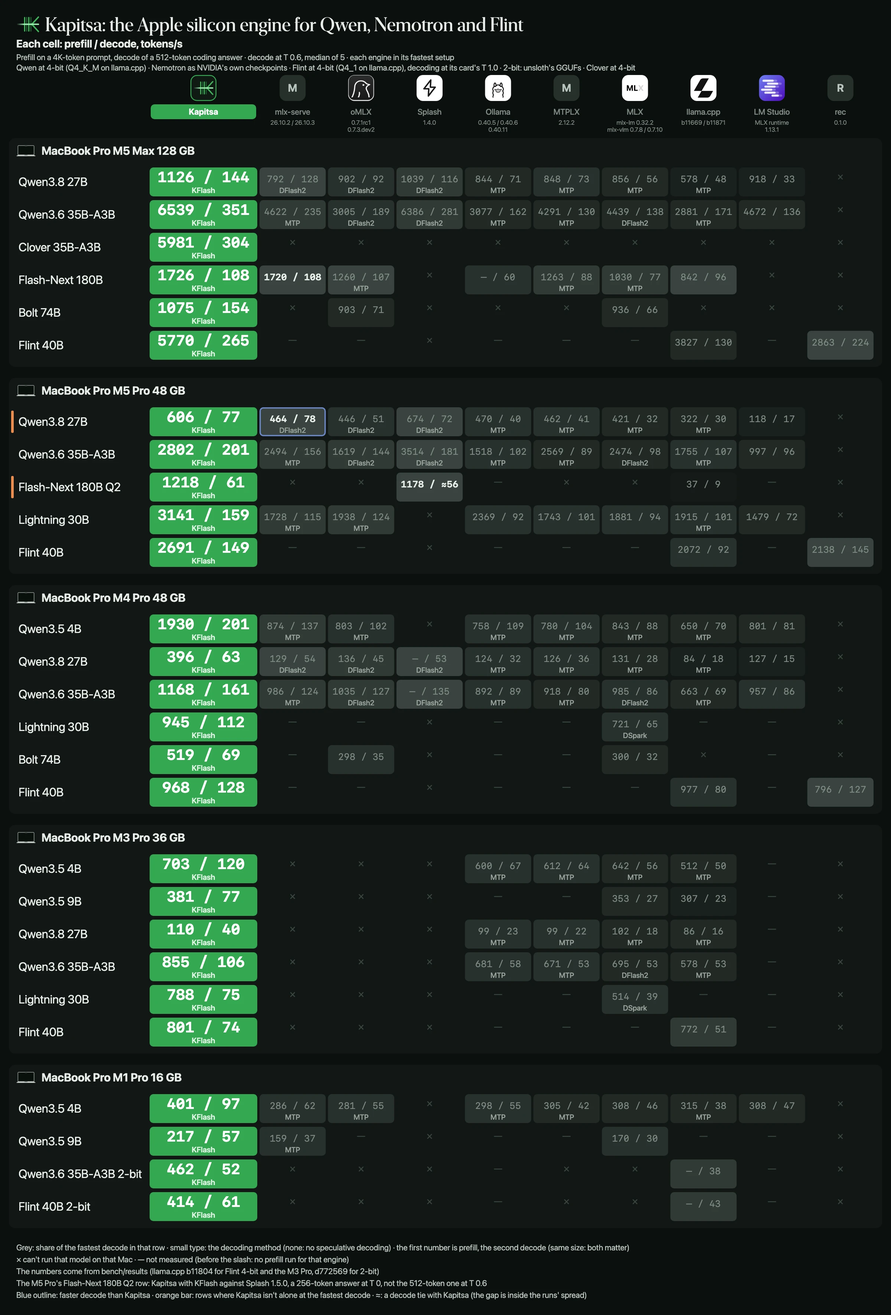
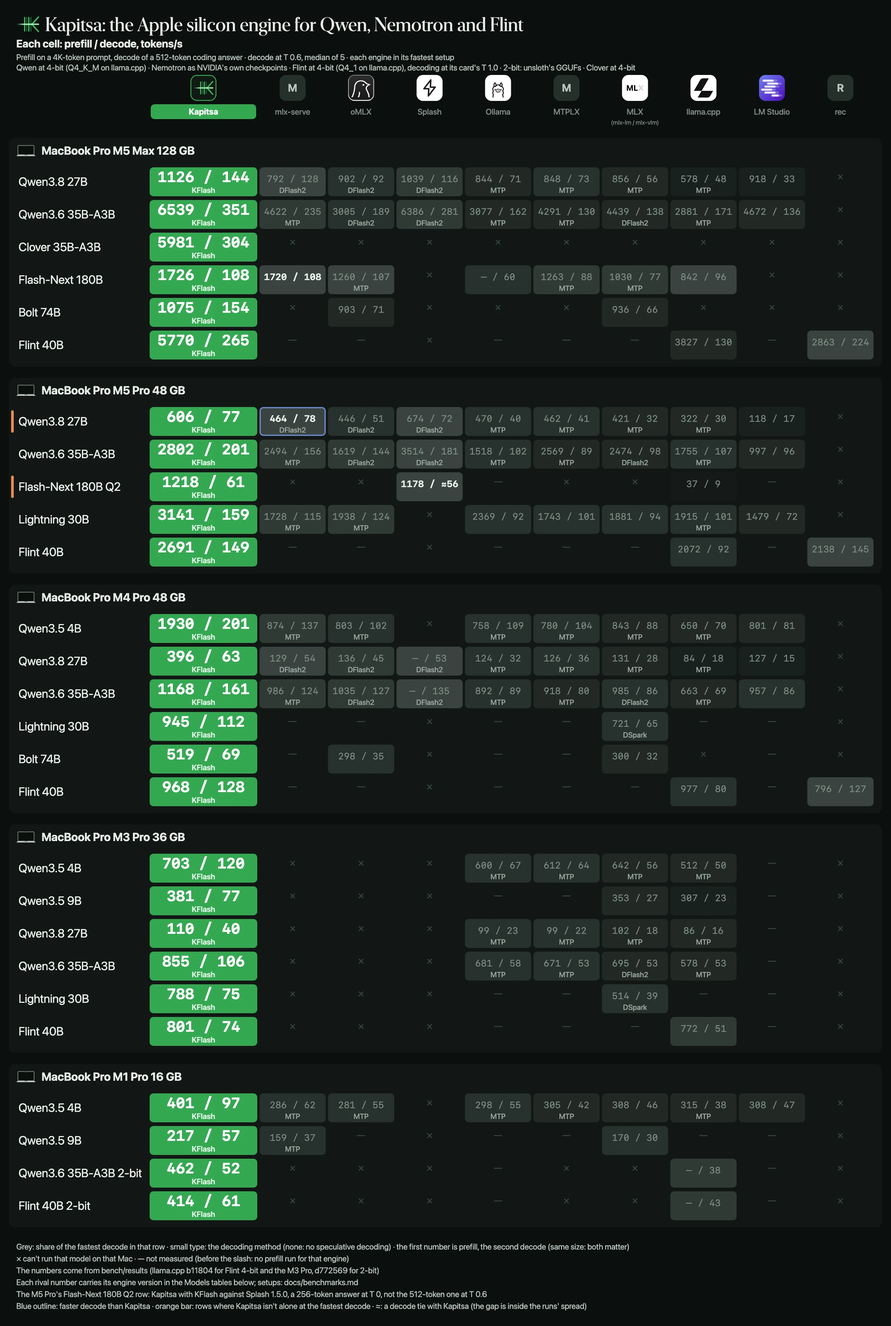
README poster: rival versions per cell, not per column (MLX cell was mislabeled 0.7.8 vs measured 0.7.12) (#1108)
* readme poster and tables: column headers name the engine, not a version; MLX reads (mlx-lm / mlx-vlm); footer points to per-cell versions

* README poster: rival versions per cell, not per column

Column headers name the engine (MLX reads (mlx-lm / mlx-vlm)); each rival cell carries its own version in its detail, from the header it had before. Poster footer points at docs/benchmarks.md. Test: every rival cell has a version in its detail or a line in docs/benchmarks.md.

* README poster footer: say what is true (versions are in the Models tables, setups in docs/benchmarks.md)

* README poster: each rival cell takes its engine version from the result files behind its number (src), not a column header

* README poster: the M5 Max Super-VL MLX cell is mlx-vlm git main 73d366e (read from its result file); version_from must name the version on the engine's own line; drop the one-shot link_sources.py

---------

diff --git a/tests/test_readme_images.py b/tests/test_readme_images.py
@@ -44,4 +44,74 @@ for kind in ("prefill", "decode"):
     html, w, h = ri.context_chart(data, "light", kind)
     assert html.count("<polyline") == 2 * len(C["models"]) and w == data["poster"]["size"][0], kind  # line, leader
     assert ri.context_alt(data, kind).startswith(C[kind]["alt"] + ": " + C["models"][0]["model"]), kind
+# column headers name an engine, never a version; every rival number shows the version of the record behind it:
+# a cell's `src` files (bench/results) give the number and the version, which readme_images.resolve_versions fills into
+# its detail; a cell whose files name no version carries `version` and, unless it says "version not recorded",
+# `version_from`, a record that states it
+import copy
+import re
+assert not any(e.get("version") and e["name"] != "MLX" for e in data["engines"]), "a rival column header names a version"
+assert not any(re.search(r"\d", v) for m in data["tables"]["macs"] for v in m.get("versions", {}).values()), "a Mac's header names a version"
+rd = copy.deepcopy(data)
+ri.resolve_versions(rd)
+rival_cells = [(m["name"], r["model"], e, c) for m in rd["poster"]["macs"] + rd["tables"]["macs"] for r in m["rows"]
+               for e, c in r["cells"].items() if e != "Kapitsa" and isinstance(c, dict) and ri.is_num(c.get("value"))]
+assert rival_cells
+NOT_RECORDED = "version not recorded"
+VERSION_WORDS = re.compile(r"mlx-lm [\d.]+|mlx-vlm [\d.]+|MLX runtime [\d.]+|llama\.cpp runtime [\d.]+|\bb\d{4,5}\b|\d+\.\d+[\w.]*|\b[0-9a-f]{7,8}\b")
+for mac, model, e, c in rival_cells:
+    who = f"{mac} / {model} / {e}"
+    assert "src" in c or "version" in c, f"{who}: no result file and no stated version behind its number"
+    if "src" in c:  # the files behind the number: right engine, and one of their decodes (or their mean) is the cell's number
+        recs = [ri.result_record(p) for p in c["src"]]
+        assert all(r["engine"] == ri.RESULT_ENGINE[e] for r in recs), who
+        meds = [r["decode_summary"]["median_tps"] for r in recs]
+        vals = [x for r in recs for x in (r["decode_summary"].get("median_tps"), r["decode_summary"].get("median_tps_e2e"),
+                                           r["decode_summary"].get("mean_tps")) if x is not None] + [sum(meds) / len(meds)]
+        assert any(abs(v - c["value"]) <= 0.55 for v in vals), f"{who}: {c['value']} is in none of its files {c['src']}"
+        lab = ri.source_version(e, c["src"])
+        if lab:
+            assert c["detail"].count(lab) == 1, f"{who}: shows {c['detail']!r}, its files record {lab!r}"
+            assert "version" not in c or c["version"] == lab, who
+            assert set(VERSION_WORDS.findall(c["detail"].replace(lab, ""))) <= set(), f"{who}: a second version in {c['detail']!r}"
+    if "version" in c and c["version"] != NOT_RECORDED and not ("src" in c and ri.source_version(e, c["src"])):
+        # the record names this version on the engine's own line (a table row or sentence about that engine), not
+        # just somewhere in the file: "mlx-vlm 0.7.8" elsewhere in a README says nothing about this engine's build
+        ENGINE_WORDS = {"Splash": ("splash",), "llama.cpp": ("llama.cpp",), "MLX": ("mlx-lm", "mlx-vlm"), "oMLX": ("omlx",),
+                        "mlx-serve": ("mlx-serve",), "Ollama": ("ollama",), "MTPLX": ("mtplx",), "LM Studio": ("lm studio", "lmstudio")}
+        src_text = open(os.path.join(ri.RESULTS, c["version_from"]), encoding="utf-8").read()
+        lines = [ln for ln in src_text.split("\n") if c["version"] in ln and any(w in ln.lower() for w in ENGINE_WORDS[e])]
+        assert lines, f"{who}: no line of {c['version_from']} names {e} with {c['version']!r}"
+        assert c["version"] in c["detail"], who
+    if c.get("version") == NOT_RECORDED:
+        assert NOT_RECORDED in c["detail"], who
+# a cell whose version differs from its result file fails: a wrong src version, a hand-typed second version, a wrong number
+bad = copy.deepcopy(data)
+cell0 = next(c for m in bad["poster"]["macs"] for r in m["rows"] for e, c in r["cells"].items()
+             if e == "MLX" and isinstance(c, dict) and c.get("src") and "mlx-vlm" in (ri.source_version("MLX", c["src"]) or ""))
+other = next(p for p in ri.RESULTS.glob("**/*mlxlm*.json") if ri.version_label("MLX", json.load(open(p)).get("version", "")) == "mlx-lm 0.32.2")
+cell0["src"] = [str(other.relative_to(ri.RESULTS))]
+assert ri.source_version("MLX", cell0["src"]) == "mlx-lm 0.32.2"
+cell0["detail"] = "mlx-vlm 0.7.12"
+try:
+    ri.resolve_versions(bad)
+    raise SystemExit("a hand-typed version was accepted")
+except AssertionError as err:
+    assert "types a version" in str(err), err
+cell0["detail"] = "{v}"
+bad = copy.deepcopy(data)   # the first resolve above stopped part-way
+cell0 = next(c for m in bad["poster"]["macs"] for r in m["rows"] for e, c in r["cells"].items()
+             if e == "MLX" and isinstance(c, dict) and c.get("src") and "mlx-vlm" in (ri.source_version("MLX", c["src"]) or ""))
+cell0["src"] = [str(other.relative_to(ri.RESULTS))]
+cell0["detail"] = "{v}"
+ri.resolve_versions(bad)
+assert cell0["detail"] == "mlx-lm 0.32.2", "the version shown is the one in the file"
+assert any("docs/benchmarks.md" in x for x in data["poster"]["footer"])
+
+# the M5 Max Super-VL MLX cell ran mlx-vlm git main 73d366e, unreleased: the 0.7.8 release refuses the model, and the
+# result file's own version field says so (the session README names the build on the mlx-vlm line)
+cell = next(r["cells"]["MLX"] for m in rd["tables"]["macs"] if "M5 Max" in m["name"] for r in m["rows"] if r["model"] == "Super-VL 120B")
+assert cell["detail"] == "mlx-vlm git main 73d366e", cell["detail"]
+assert "0.7.8" not in cell["detail"]
+assert "73d366e" in open(os.path.join(ri.RESULTS, cell["src"][0]), encoding="utf-8").read()
 print(f"test_readme_images: ok ({n} Kapitsa cells)")

diff --git a/tools/readme_images/readme_images.py b/tools/readme_images/readme_images.py
@@ -52,6 +52,79 @@ def cell(row, engine):
     return c.get("value"), None if m == NO_SPEC else m, c
 
 
+RESULTS = ROOT / "bench" / "results"
+
+
+def version_label(engine, raw):
+    """the engine version a result file records, as the README shows it: "mlx-lm 0.32.2", "b11669", "0.7.1rc1"; None when
+    the file does not say (unknown, b0): such a cell names its version in `version`, with `version_from` naming the
+    record that states it"""
+    import re
+    r = (raw or "").strip()
+    if not r or r == "unknown":
+        return None
+    if engine == "llama.cpp":
+        m = re.search(r"\((b\d+), (\w+)\)", r)
+        if not m:
+            return None
+        return m.group(1) if m.group(1) not in ("b0", "b1") else (m.group(2) if m.group(2) != "unknown" else None)
+    if engine == "MLX":
+        m = re.match(r"mlx_lm (\S+?)(?:\+\S+)? mlx", r)
+        if m:
+            return "mlx-lm " + m.group(1)
+        m = re.match(r"mlx-vlm (git main \w+)", r) or re.match(r"mlx-vlm (\d[\w.]*)", r)
+        return "mlx-vlm " + m.group(1) if m else None
+    if engine == "oMLX":
+        m = re.match(r"(?:omlx )?(\d[\w.]*)", r)
+        return m.group(1) if m else None
+    if engine == "LM Studio":
+        m = re.search(r"(MLX runtime [\d.]+|llama\.cpp runtime [\d.]+)", r)
+        return m.group(1) if m else None
+    if engine == "MTPLX":
+        m = re.match(r"mtplx (\S+)", r)
+        return m.group(1) if m else None
+    return r
+
+
+RESULT_ENGINE = {"mlx-serve": "mlx-serve", "oMLX": "omlx", "Splash": "splash", "Ollama": "ollama", "MTPLX": "mtplx",
+                 "MLX": "mlx-lm", "llama.cpp": "llama.cpp", "LM Studio": "lmstudio", "rec": "rec"}
+
+
+def result_record(path):
+    return json.loads((RESULTS / path).read_text(encoding="utf-8"))
+
+
+def source_version(engine, src):
+    """the version(s) the result files behind a cell record, joined with " / " when they differ; None if a file doesn't say"""
+    labels = []
+    for p in src:
+        rec = result_record(p)
+        assert rec.get("engine") == RESULT_ENGINE[engine], f"{p} is a {rec.get('engine')} record, not {engine}"
+        lab = version_label(engine, rec.get("version"))
+        if lab is None:
+            return None
+        if lab not in labels:
+            labels.append(lab)
+    return " / ".join(labels)
+
+
+def resolve_versions(data):
+    """a rival cell with `src` (the result files behind its number) shows the version those files record: its `detail`
+    is a template whose {v} the files fill (default "{v}"), never typed. A cell whose files don't say names `version`
+    and `version_from` (a record that states it); `check` verifies it"""
+    for kind in ("poster", "tables"):
+        for mac in data[kind]["macs"]:
+            for row in mac["rows"]:
+                for eng, c in row["cells"].items():
+                    if eng == "Kapitsa" or not isinstance(c, dict) or not ("src" in c or "version" in c):
+                        continue
+                    v = (source_version(eng, c["src"]) if "src" in c else None) or c.get("version")
+                    assert v, f"{mac['name']} / {row['model']} / {eng}: its files name no version and the cell gives none"
+                    tmpl = c.get("detail", "{v}")
+                    assert "{v}" in tmpl, f"{mac['name']} / {row['model']} / {eng}: its detail {tmpl!r} types a version; write {{v}}"
+                    c["detail"] = tmpl.replace("{v}", v)
+
+
 def is_num(v):
     return isinstance(v, (int, float)) and not isinstance(v, bool)
 
@@ -139,7 +212,7 @@ def family_table(data, rows, tmac=None):
             head.append("<mark>**Kapitsa**</mark>")
             continue
         name = e["name"].replace(" ", "&nbsp;").replace("-", "\u2011")
-        ver = (shared[e["name"]] or (tmac or {}).get("versions", {}).get(e["name"])
+        ver = ((tmac or {}).get("versions", {}).get(e["name"])
                or T.get("versions", {}).get(e["name"], e.get("version", "")).replace("\n", " "))
         head.append(f"<sub>{name}<br>{ver}</sub>" if ver else f"<sub>{name}</sub>")
     out = ["| Model | " + " | ".join(head) + " |", "| --- |" + " ---: |" * len(engines)]
@@ -148,7 +221,7 @@ def family_table(data, rows, tmac=None):
         top = max(cell(r, e["name"])[0] for e in engines if is_num(cell(r, e["name"])[0]))
         alias = f" · `{m['alias']}`" if m.get("alias") else ""   # (none: not in the catalog, e.g. a converted folder)
         out.append(f"| **{m['name']}**{alias}<br><sub>{m['about']}</sub> | "
-                   + " | ".join(table_cell(r, e["name"], top, shared[e["name"]]) for e in engines) + " |")
+                   + " | ".join(table_cell(r, e["name"], top, shared[e["name"]] if e["name"] == "Kapitsa" else None) for e in engines) + " |")
     return out
 
 
@@ -768,6 +841,7 @@ def main():
     ap.add_argument("--data", type=Path, default=HERE / "readme_images.json")
     a = ap.parse_args()
     data = json.loads(a.data.read_text(encoding="utf-8"))
+    resolve_versions(data)
     check(data)
     if a.tables:
         old = a.readme.read_text(encoding="utf-8")

diff --git a/README.md b/README.md
@@ -145,21 +145,21 @@ The catalog models measured on each Mac, against the engines that run them: one 
 
 **Qwen and Nemotron**
 
-| Model | <mark>**Kapitsa**</mark> | <sub>mlx‑serve<br>26.10.2 / 26.10.3</sub> | <sub>oMLX<br>0.7.1rc1 / 0.7.3.dev2</sub> | <sub>Splash<br>1.4.0</sub> | <sub>Ollama<br>0.40.5 / 0.40.11</sub> | <sub>MTPLX<br>2.12.2</sub> | <sub>MLX<br>mlx-vlm 0.7.8 / 0.7.10</sub> | <sub>llama.cpp<br>b11669 / b11871</sub> | <sub>LM&nbsp;Studio<br>MLX runtime 1.13.1 (nax), llama.cpp runtime 2.60.0</sub> |
+| Model | <mark>**Kapitsa**</mark> | <sub>mlx‑serve</sub> | <sub>oMLX</sub> | <sub>Splash</sub> | <sub>Ollama</sub> | <sub>MTPLX</sub> | <sub>MLX<br>(mlx-lm / mlx-vlm)</sub> | <sub>llama.cpp</sub> | <sub>LM&nbsp;Studio</sub> |
 | --- | ---: | ---: | ---: | ---: | ---: | ---: | ---: | ---: | ---: |
-| **Qwen3.8-27B** · `27b`<br><sub>dense · 4-bit, 20.2 GB</sub> | 🟩 1126 / **144**<br><sub>KFlash · 7afb51d</sub> | 792 / 128<br><sub>DFlash2 · 26.10.3</sub> | 902 / 92<br><sub>DFlash2 · 0.7.3.dev2</sub> | 1039 / 116<br><sub>DFlash2</sub> | 844 / 71<br><sub>MTP · 0.40.11, MLX runner</sub> | 848 / 73<br><sub>MTP</sub> | 856 / 56<br><sub>MTP · mlx-vlm 0.7.10</sub> | 578 / 48<br><sub>MTP · b11871</sub> | 918 / 33<br><sub>MLX runtime 1.13.1 (nax)</sub> |
-| **Qwen3.6-35B-A3B** · `35b`<br><sub>MoE, 3B active · 4-bit, 22.1 GB</sub> | 🟩 6539 / **351**<br><sub>KFlash · 39f20c8</sub> | 4622 / 235<br><sub>MTP · 26.10.3</sub> | 3005 / 189<br><sub>DFlash2 · 0.7.3.dev2</sub> | 6386 / 281<br><sub>DFlash2</sub> | 3077 / 162<br><sub>MTP · 0.40.11, MLX runner</sub> | 4291 / 130<br><sub>MTP</sub> | 4439 / 138<br><sub>DFlash2 · mlx-vlm 0.7.10</sub> | 2881 / 171<br><sub>MTP · b11669</sub> | 4672 / 136<br><sub>MLX runtime 1.13.1 (nax)</sub> |
-| **Qwen3.8-Flash-Next 180B-A7B** · `flash-next`<br><sub>MoE, 7B active · 4-bit, 105.9 GB</sub> | 🟩 1726 / **108**<br><sub>KFlash · af7d795</sub> | 🟩 1720 / **108**<br><sub>26.10.2</sub> | 1260 / 107<br><sub>MTP · 0.7.1rc1</sub> | × | 60<br><sub>0.40.6</sub> | 1263 / 88<br><sub>MTP</sub> | 1030 / 77<br><sub>MTP · mlx-vlm 0.7.8</sub> | 842 / 96<br><sub>b11669</sub> | × |
-| **Nemotron Dory1.0 4B** · `dory`<br><sub>looped dense · NVFP4, 3.2 GB</sub> | 🟩 **122**<br><sub>KFlash · 7f4e709</sub> | × | × | × | × | × | 76<br><sub>mlx-vlm 0.7.8</sub> | 9<br><sub>b11669</sub> | × |
-| **Nemotron 3.5 Lightning 30B-A3B** · `lightning`<br><sub>hybrid MoE, 3B active · NVFP4, 22.9 GB</sub> | 🟩 **287**<br><sub>KFlash · 7f4e709</sub> | 190<br><sub>26.10.2</sub> | 190<br><sub>0.7.1rc1</sub> | × | 153<br><sub>0.40.5</sub> | 131 | 139<br><sub>mlx-vlm 0.7.8</sub> | 159<br><sub>b11669</sub> | 110<br><sub>llama.cpp runtime 2.60.0</sub> |
-| **Nemotron 3.5 Bolt 74B-A9B** · `bolt`<br><sub>hybrid MoE, 9B active · 2/4/8-bit mix, 25.1 GB</sub> | 🟩 1075 / **154**<br><sub>KFlash · 7f4e709</sub> | × | 903 / 71<br><sub>0.7.3.dev2</sub> | × | × | × | 936 / 66<br><sub>mlx-vlm 0.7.10</sub> | × | × |
-| **Nemotron 3.5 Super-VL 120B-A12B** · `super`<br><sub>hybrid MoE, 12B active · NVFP4, 76.4 GB</sub> | 🟩 **87**<br><sub>KFlash · 7f4e709</sub> | × | 52<br><sub>0.7.1rc1</sub> | × | 64<br><sub>0.40.5</sub> | 44 | 46<br><sub>mlx-vlm 0.7.8</sub> | 66<br><sub>b11669</sub> | 61<br><sub>llama.cpp runtime 2.60.0</sub> |
+| **Qwen3.8-27B** · `27b`<br><sub>dense · 4-bit, 20.2 GB</sub> | 🟩 1126 / **144**<br><sub>KFlash · 7afb51d</sub> | 792 / 128<br><sub>DFlash2 · 26.10.3</sub> | 902 / 92<br><sub>DFlash2 · 0.7.3.dev2</sub> | 1039 / 116<br><sub>DFlash2 · 1.4.0</sub> | 844 / 71<br><sub>MTP · 0.40.11, MLX runner</sub> | 848 / 73<br><sub>MTP · 2.12.2</sub> | 856 / 56<br><sub>MTP · mlx-vlm 0.7.10</sub> | 578 / 48<br><sub>MTP · b11871</sub> | 918 / 33<br><sub>MLX runtime 1.13.1 (nax)</sub> |
+| **Qwen3.6-35B-A3B** · `35b`<br><sub>MoE, 3B active · 4-bit, 22.1 GB</sub> | 🟩 6539 / **351**<br><sub>KFlash · 39f20c8</sub> | 4622 / 235<br><sub>MTP · 26.10.3</sub> | 3005 / 189<br><sub>DFlash2 · 0.7.3.dev2</sub> | 6386 / 281<br><sub>DFlash2 · 1.4.0</sub> | 3077 / 162<br><sub>MTP · 0.40.11, MLX runner</sub> | 4291 / 130<br><sub>MTP · 2.12.2</sub> | 4439 / 138<br><sub>DFlash2 · mlx-vlm 0.7.10</sub> | 2881 / 171<br><sub>MTP · b11669</sub> | 4672 / 136<br><sub>MLX runtime 1.13.1 (nax)</sub> |
+| **Qwen3.8-Flash-Next 180B-A7B** · `flash-next`<br><sub>MoE, 7B active · 4-bit, 105.9 GB</sub> | 🟩 1726 / **108**<br><sub>KFlash · af7d795</sub> | 🟩 1720 / **108**<br><sub>26.10.2</sub> | 1260 / 107<br><sub>MTP · 0.7.1rc1</sub> | × | 60<br><sub>0.40.6</sub> | 1263 / 88<br><sub>MTP · 2.12.2</sub> | 1030 / 77<br><sub>MTP · mlx-vlm 0.7.8</sub> | 842 / 96<br><sub>b11669</sub> | × |
+| **Nemotron Dory1.0 4B** · `dory`<br><sub>looped dense · NVFP4, 3.2 GB</sub> | 🟩 **122**<br><sub>KFlash · 7f4e709</sub> | × | × | × | × | × | 76<br><sub>mlx-lm 0.32.3.dev3</sub> | 9<br><sub>b11551</sub> | × |
+| **Nemotron 3.5 Lightning 30B-A3B** · `lightning`<br><sub>hybrid MoE, 3B active · NVFP4, 22.9 GB</sub> | 🟩 **287**<br><sub>KFlash · 7f4e709</sub> | 190<br><sub>26.10.2</sub> | 190<br><sub>0.7.1rc1</sub> | × | 153<br><sub>0.40.6</sub> | 131<br><sub>2.12.2</sub> | 139<br><sub>mlx-lm 0.32.2</sub> | 159<br><sub>b11669</sub> | 110<br><sub>llama.cpp runtime 2.60.0</sub> |
+| **Nemotron 3.5 Bolt 74B-A9B** · `bolt`<br><sub>hybrid MoE, 9B active · 2/4/8-bit mix, 25.1 GB</sub> | 🟩 1075 / **154**<br><sub>KFlash · 7f4e709</sub> | × | 903 / 71<br><sub>0.7.3.dev2</sub> | × | × | × | 936 / 66<br><sub>version not recorded</sub> | × | × |
+| **Nemotron 3.5 Super-VL 120B-A12B** · `super`<br><sub>hybrid MoE, 12B active · NVFP4, 76.4 GB</sub> | 🟩 **87**<br><sub>KFlash · 7f4e709</sub> | × | 52<br><sub>0.7.1rc1</sub> | × | 64<br><sub>0.40.6</sub> | 44<br><sub>2.12.2</sub> | 46<br><sub>mlx-vlm git main 73d366e</sub> | 66<br><sub>b11669</sub> | 61<br><sub>llama.cpp runtime 2.60.0</sub> |
 
 **Recursive Flint**
 
-| Model | <mark>**Kapitsa**</mark> | <sub>llama.cpp<br>Q4_1, b11871</sub> | <sub>rec<br>0.1.0</sub> |
+| Model | <mark>**Kapitsa**</mark> | <sub>llama.cpp</sub> | <sub>rec</sub> |
 | --- | ---: | ---: | ---: |
-| **Recursive Flint 40B-A2.5B** · `flint`<br><sub>MoE, 2.5B active · 4-bit, 22.6 GB</sub> | 🟩 5770 / **265**<br><sub>KFlash</sub> | 3827 / 130 | 2863 / 224 |
+| **Recursive Flint 40B-A2.5B** · `flint`<br><sub>MoE, 2.5B active · 4-bit, 22.6 GB</sub> | 🟩 5770 / **265**<br><sub>KFlash</sub> | 3827 / 130<br><sub>Q4_1, b11871</sub> | 2863 / 224<br><sub>0.1.0</sub> |
 
 **DiffuSpace Clover**
 
@@ -176,20 +176,20 @@ The catalog models measured on each Mac, against the engines that run them: one 
 
 **Qwen and Nemotron**
 
-| Model | <mark>**Kapitsa**</mark> | <sub>mlx‑serve<br>26.10.2</sub> | <sub>oMLX<br>0.7.1rc1</sub> | <sub>Splash<br>1.4.0</sub> | <sub>Ollama<br>0.40.5 / 0.40.6</sub> | <sub>MTPLX<br>2.12.2</sub> | <sub>MLX<br>mlx-lm 0.32.2, mlx-vlm 0.7.8</sub> | <sub>llama.cpp<br>b11669 / b11871</sub> | <sub>LM&nbsp;Studio<br>MLX runtime 1.13.1, llama.cpp runtime 2.60.0</sub> |
+| Model | <mark>**Kapitsa**</mark> | <sub>mlx‑serve</sub> | <sub>oMLX</sub> | <sub>Splash</sub> | <sub>Ollama</sub> | <sub>MTPLX</sub> | <sub>MLX<br>(mlx-lm / mlx-vlm)</sub> | <sub>llama.cpp</sub> | <sub>LM&nbsp;Studio</sub> |
 | --- | ---: | ---: | ---: | ---: | ---: | ---: | ---: | ---: | ---: |
-| **Qwen3.8-27B** · `27b`<br><sub>dense · 4-bit, 20.2 GB</sub> | 606 / 77<br><sub>KFlash</sub> | 🟩 464 / **78**<br><sub>DFlash2</sub> | 446 / 51<br><sub>DFlash2</sub> | 674 / 72<br><sub>DFlash2</sub> | 470 / 40<br><sub>MTP</sub> | 462 / 41<br><sub>MTP</sub> | 421 / 32<br><sub>MTP</sub> | 322 / 30<br><sub>MTP</sub> | 118 / 17 |
-| **Qwen3.6-35B-A3B** · `35b`<br><sub>MoE, 3B active · 4-bit, 22.1 GB</sub> | 🟩 2802 / **201**<br><sub>KFlash</sub> | 2494 / 156<br><sub>MTP</sub> | 1619 / 144<br><sub>DFlash2</sub> | 3514 / 181<br><sub>DFlash2</sub> | 1518 / 102<br><sub>MTP</sub> | 2569 / 89<br><sub>MTP</sub> | 2474 / 98<br><sub>DFlash2</sub> | 1755 / 107<br><sub>MTP</sub> | 997 / 96 |
+| **Qwen3.8-27B** · `27b`<br><sub>dense · 4-bit, 20.2 GB</sub> | 606 / 77<br><sub>KFlash</sub> | 🟩 464 / **78**<br><sub>DFlash2 · 26.10.2</sub> | 446 / 51<br><sub>DFlash2 · 0.7.1rc1</sub> | 674 / 72<br><sub>DFlash2 · 1.4.0</sub> | 470 / 40<br><sub>MTP · 0.40.6</sub> | 462 / 41<br><sub>MTP · 2.12.2</sub> | 421 / 32<br><sub>MTP · mlx-vlm 0.7.8</sub> | 322 / 30<br><sub>MTP · b11669</sub> | 118 / 17<br><sub>MLX runtime 1.13.1</sub> |
+| **Qwen3.6-35B-A3B** · `35b`<br><sub>MoE, 3B active · 4-bit, 22.1 GB</sub> | 🟩 2802 / **201**<br><sub>KFlash</sub> | 2494 / 156<br><sub>MTP · 26.10.2</sub> | 1619 / 144<br><sub>DFlash2 · 0.7.1rc1</sub> | 3514 / 181<br><sub>DFlash2 · 1.4.0</sub> | 1518 / 102<br><sub>MTP · 0.40.6</sub> | 2569 / 89<br><sub>MTP · 2.12.2</sub> | 2474 / 98<br><sub>DFlash2 · mlx-vlm 0.7.8</sub> | 1755 / 107<br><sub>MTP · b11669</sub> | 997 / 96<br><sub>MLX runtime 1.13.1</sub> |
 | **Qwen3.8-Flash-Next 180B-A7B** · `flash-next`<br><sub>MoE, 7B active · Q2_0 experts streamed from the SSD</sub> | 🟩 1218 / **61**<br><sub>KFlash · e67b764f</sub> | × | × | 1178 / **≈56**<br><sub>1.5.0</sub> | — | × | × | 37 / 9<br><sub>c7474afc</sub> | — |
-| **Nemotron Dory1.0 4B** · `dory`<br><sub>looped dense · NVFP4, 3.2 GB</sub> | 🟩 **70**<br><sub>KFlash</sub> | × | × | × | × | × | 53 | 13 | × |
-| **Nemotron 3.5 Lightning 30B-A3B** · `lightning`<br><sub>hybrid MoE, 3B active · NVFP4, 22.9 GB</sub> | 🟩 3141 / **159**<br><sub>KFlash</sub> | 1728 / 115<br><sub>MTP</sub> | 1938 / 124<br><sub>MTP</sub> | × | 2369 / 92 | 1743 / 101 | 1881 / 94 | 1915 / 101<br><sub>MTP</sub> | 1479 / 72 |
-| **Nemotron 3.5 Bolt 74B-A9B** · `bolt`<br><sub>hybrid MoE, 9B active · 2/4/8-bit mix, 25.1 GB</sub> | 🟩 **79**<br><sub>KFlash</sub> | × | 39 | × | × | × | 41 | × | × |
+| **Nemotron Dory1.0 4B** · `dory`<br><sub>looped dense · NVFP4, 3.2 GB</sub> | 🟩 **70**<br><sub>KFlash</sub> | × | × | × | × | × | 53<br><sub>mlx-lm 0.32.2.dev0</sub> | 13<br><sub>version not recorded</sub> | × |
+| **Nemotron 3.5 Lightning 30B-A3B** · `lightning`<br><sub>hybrid MoE, 3B active · NVFP4, 22.9 GB</sub> | 🟩 3141 / **159**<br><sub>KFlash</sub> | 1728 / 115<br><sub>MTP · 26.10.2</sub> | 1938 / 124<br><sub>MTP · 0.7.1rc1</sub> | × | 2369 / 92<br><sub>0.40.6</sub> | 1743 / 101<br><sub>2.12.2</sub> | 1881 / 94<br><sub>mlx-lm 0.32.2</sub> | 1915 / 101<br><sub>MTP · b11669</sub> | 1479 / 72<br><sub>llama.cpp runtime 2.60.0</sub> |
+| **Nemotron 3.5 Bolt 74B-A9B** · `bolt`<br><sub>hybrid MoE, 9B active · 2/4/8-bit mix, 25.1 GB</sub> | 🟩 **79**<br><sub>KFlash</sub> | × | 39<br><sub>0.7.1rc1</sub> | × | × | × | 41<br><sub>version not recorded</sub> | × | × |
 
 **Recursive Flint**
 
-| Model | <mark>**Kapitsa**</mark> | <sub>llama.cpp<br>b11804</sub> | <sub>rec<br>0.1.0</sub> |
+| Model | <mark>**Kapitsa**</mark> | <sub>llama.cpp</sub> | <sub>rec</sub> |
 | --- | ---: | ---: | ---: |
-| **Recursive Flint 40B-A2.5B** · `flint`<br><sub>MoE, 2.5B active · 4-bit, 22.6 GB</sub> | 🟩 2691 / **149**<br><sub>KFlash</sub> | 2072 / 92 | 2138 / 145 |
+| **Recursive Flint 40B-A2.5B** · `flint`<br><sub>MoE, 2.5B active · 4-bit, 22.6 GB</sub> | 🟩 2691 / **149**<br><sub>KFlash</sub> | 2072 / 92<br><sub>b11804</sub> | 2138 / 145<br><sub>0.1.0</sub> |
 
 <sub>Qwen3.8-Flash-Next 180B-A7B does not fit in 48 GB, so both engines stream its experts from the SSD. With Q2_0 weights on both and Kapitsa's expert store pinned at 24 GB (the auto size here is about 29.9 GB, but four runs at that size were stopped at memory pressure), Kapitsa's prefill is behind on short prompts, level at 4K and 16K and 2.7% ahead at 32K: not the fastest everywhere (correction, 24 Oct: on Kapitsa's warm second leg alone its prefill is 13.5-14.5% behind at 1K, level at 4K and a few percent ahead at 16K and 32K; [numbers and caveats](docs/benchmarks.md#qwen38-flash-next-streamed-from-the-ssd-kapitsa-against-llamacpp-m5-pro-48-gb-2026-10-24)). The Flash-Next 180B Q2 row's Kapitsa and Splash cells are a 2026-10-30 re-measure ([record](bench/results/2026-10-30-m5-pro-flash-next-kflash/README.md)): Kapitsa at main `e67b764f` running **KFlash** against the plain Splash 1.5.0 release, both at `--expert-memory 16G --idle-release off`, interleaved K S K S, 5 legs per arm of 2 runs each, with the scripts of the 2026-10-27 run. Its decode is a 256-token answer at T 0, not this table's 512-token answer at T 0.6, counted from the first token to the last over 10 requests per engine; its 4K prefill is prompt tokens over time to first token on that run's own 4,074-token prompt, against this table's 4,133. Kapitsa read 61.3 decode (53.7-64.7) and 1,218 prefill (976-1,269) against Splash's 56.5 (51.9-60.2) and 1,178 (1,040-1,262): the ranges overlap, so by the rule registered before the run it is a tie, not a win. KFlash's interleaved A/B at `--expert-memory 20G` (29 Oct, more runs per arm) measured decode 1.101x and 4K prefill 1.004x the release, the same tokens as the release on 6 prompts × 22 runs ([numbers](docs/benchmarks.md#m5-pro)). The llama.cpp cell is the 2026-10-27 four-engine run, PR #751 ([record](bench/results/2026-10-28-m5-pro-flash-next-engines/README.md)), 2 requests. Kapitsa's own engine ran in that record too, with MTP depth 2 and its expert store pinned at 24 GB, not sized from free memory: 847 prefill and 53.7 decode at T 0, but three of its legs were stopped at memory-pressure level 4, with up to 4.5 GB of swap, late in the leg (16K prefill or turn 2), so its 16K and turn-2 cells have 9 runs against 12. Ollama and LM Studio were not run on that Q2_0 pack, so their cells are dashes, and mlx-serve, oMLX, MTPLX and MLX have no pack of this model that fits 48 GB.</sub>
 
@@ -200,20 +200,20 @@ The catalog models measured on each Mac, against the engines that run them: one 
 
 **Qwen and Nemotron**
 
-| Model | <mark>**Kapitsa**</mark> | <sub>mlx‑serve<br>26.10.2</sub> | <sub>oMLX<br>0.7.1rc1</sub> | <sub>Splash<br>1.4.0</sub> | <sub>Ollama<br>0.40.5 / 0.40.6</sub> | <sub>MTPLX<br>2.12.2</sub> | <sub>MLX<br>mlx-lm 0.32.2, mlx-vlm 0.7.8</sub> | <sub>llama.cpp<br>b11669 / b11871</sub> | <sub>LM&nbsp;Studio<br>MLX runtime 1.13.1, llama.cpp runtime 2.60.0</sub> |
+| Model | <mark>**Kapitsa**</mark> | <sub>mlx‑serve</sub> | <sub>oMLX</sub> | <sub>Splash</sub> | <sub>Ollama</sub> | <sub>MTPLX</sub> | <sub>MLX<br>(mlx-lm / mlx-vlm)</sub> | <sub>llama.cpp</sub> | <sub>LM&nbsp;Studio</sub> |
 | --- | ---: | ---: | ---: | ---: | ---: | ---: | ---: | ---: | ---: |
-| **Qwen3.5-4B** · `4b`<br><sub>dense · 4-bit, 4.6 GB</sub> | 🟩 1930 / **201**<br><sub>KFlash</sub> | 874 / 137<br><sub>MTP</sub> | 803 / 102<br><sub>MTP</sub> | × | 758 / 109<br><sub>MTP</sub> | 780 / 104<br><sub>MTP</sub> | 843 / 88<br><sub>MTP</sub> | 650 / 70<br><sub>MTP</sub> | 801 / 81 |
-| **Qwen3.8-27B** · `27b`<br><sub>dense · 4-bit, 20.2 GB</sub> | 🟩 396 / **63**<br><sub>KFlash</sub> | 129 / 54<br><sub>DFlash2</sub> | 136 / 45<br><sub>DFlash2</sub> | 53<br><sub>DFlash2</sub> | 124 / 32<br><sub>MTP</sub> | 126 / 36<br><sub>MTP</sub> | 131 / 28<br><sub>MTP</sub> | 84 / 18<br><sub>MTP</sub> | 127 / 15 |
-| **Qwen3.6-35B-A3B** · `35b`<br><sub>MoE, 3B active · 4-bit, 22.1 GB</sub> | 🟩 1168 / **161**<br><sub>KFlash</sub> | 986 / 124<br><sub>MTP</sub> | 1035 / 127<br><sub>DFlash2</sub> | 135<br><sub>DFlash2</sub> | 892 / 89<br><sub>MTP</sub> | 918 / 80<br><sub>MTP</sub> | 985 / 86<br><sub>DFlash2</sub> | 663 / 69<br><sub>MTP</sub> | 957 / 86 |
-| **Nemotron Dory1.0 4B** · `dory`<br><sub>looped dense · NVFP4, 3.2 GB</sub> | 🟩 **64**<br><sub>KFlash</sub> | × | × | × | × | × | 48 | 6 | × |
-| **Nemotron 3.5 Lightning 30B-A3B** · `lightning`<br><sub>hybrid MoE, 3B active · NVFP4, 22.9 GB</sub> | 🟩 945 / **112**<br><sub>KFlash</sub> | — | — | × | — | — | 721 / 65<br><sub>DSpark</sub> | — | — |
-| **Nemotron 3.5 Bolt 74B-A9B** · `bolt`<br><sub>hybrid MoE, 9B active · 2/4/8-bit mix, 25.1 GB</sub> | 🟩 519 / **69**<br><sub>KFlash</sub> | — | 298 / 35 | × | — | — | 300 / 32 | × | — |
+| **Qwen3.5-4B** · `4b`<br><sub>dense · 4-bit, 4.6 GB</sub> | 🟩 1930 / **201**<br><sub>KFlash</sub> | 874 / 137<br><sub>MTP · 26.10.2</sub> | 803 / 102<br><sub>MTP · 0.7.1rc1</sub> | × | 758 / 109<br><sub>MTP · 0.40.6</sub> | 780 / 104<br><sub>MTP · 2.12.2</sub> | 843 / 88<br><sub>MTP · mlx-vlm 0.7.8</sub> | 650 / 70<br><sub>MTP · b11669</sub> | 801 / 81<br><sub>MLX runtime 1.13.1</sub> |
+| **Qwen3.8-27B** · `27b`<br><sub>dense · 4-bit, 20.2 GB</sub> | 🟩 396 / **63**<br><sub>KFlash</sub> | 129 / 54<br><sub>DFlash2 · 26.10.2</sub> | 136 / 45<br><sub>DFlash2 · 0.7.1rc1</sub> | 53<br><sub>DFlash2 · 1.4.0</sub> | 124 / 32<br><sub>MTP · 0.40.5</sub> | 126 / 36<br><sub>MTP · 2.12.2</sub> | 131 / 28<br><sub>MTP · mlx-vlm 0.7.8</sub> | 84 / 18<br><sub>MTP · b11669</sub> | 127 / 15<br><sub>MLX runtime 1.13.1</sub> |
+| **Qwen3.6-35B-A3B** · `35b`<br><sub>MoE, 3B active · 4-bit, 22.1 GB</sub> | 🟩 1168 / **161**<br><sub>KFlash</sub> | 986 / 124<br><sub>MTP · 26.10.2</sub> | 1035 / 127<br><sub>DFlash2 · 0.7.1rc1</sub> | 135<br><sub>DFlash2 · 1.4.0</sub> | 892 / 89<br><sub>MTP · 0.40.5</sub> | 918 / 80<br><sub>MTP · 2.12.2</sub> | 985 / 86<br><sub>DFlash2 · mlx-vlm 0.7.8</sub> | 663 / 69<br><sub>MTP · b11669</sub> | 957 / 86<br><sub>MLX runtime 1.13.1</sub> |
+| **Nemotron Dory1.0 4B** · `dory`<br><sub>looped dense · NVFP4, 3.2 GB</sub> | 🟩 **64**<br><sub>KFlash</sub> | × | × | × | × | × | 48<br><sub>mlx-lm 0.32.3.dev3</sub> | 6<br><sub>version not recorded</sub> | × |
+| **Nemotron 3.5 Lightning 30B-A3B** · `lightning`<br><sub>hybrid MoE, 3B active · NVFP4, 22.9 GB</sub> | 🟩 945 / **112**<br><sub>KFlash</sub> | — | — | × | — | — | 721 / 65<br><sub>DSpark · mlx-vlm 0.7.8</sub> | — | — |
+| **Nemotron 3.5 Bolt 74B-A9B** · `bolt`<br><sub>hybrid MoE, 9B active · 2/4/8-bit mix, 25.1 GB</sub> | 🟩 519 / **69**<br><sub>KFlash</sub> | — | 298 / 35<br><sub>0.7.1rc1</sub> | × | — | — | 300 / 32<br><sub>mlx-vlm 0.7.8</sub> | × | — |
 
 **Recursive Flint**
 
-| Model | <mark>**Kapitsa**</mark> | <sub>llama.cpp<br>b11804</sub> | <sub>rec<br>0.1.0</sub> |
+| Model | <mark>**Kapitsa**</mark> | <sub>llama.cpp</sub> | <sub>rec</sub> |
 | --- | ---: | ---: | ---: |
-| **Recursive Flint 40B-A2.5B** · `flint`<br><sub>MoE, 2.5B active · 4-bit, 22.6 GB</sub> | 🟩 968 / **128**<br><sub>KFlash</sub> | 977 / 80 | 796 / 127 |
+| **Recursive Flint 40B-A2.5B** · `flint`<br><sub>MoE, 2.5B active · 4-bit, 22.6 GB</sub> | 🟩 968 / **128**<br><sub>KFlash</sub> | 977 / 80<br><sub>b11804</sub> | 796 / 127<br><sub>0.1.0</sub> |
 
 <sub>Splash's cells are Splash 1.4.0 at decode only (2026-10-21): Splash needs macOS 26.4 or later, and this MacBook is on 27.0.1. On an AWS EC2 Mac mini M4 Pro (48 GB, macOS 26.7) on 2026-10-28, Splash 1.4.1 read 1056 / 140 on the 35B-A3B and 251 / 50 on the 27B, against Kapitsa 0.2.23's 1171 / 169 and 392 / 65 on the same Mac ([record](bench/results/2026-10-28-m4pro-ec2-macos26/README.md)).</sub>
 
@@ -224,23 +224,23 @@ The catalog models measured on each Mac, against the engines that run them: one 
 
 **Qwen and Nemotron**
 
-| Model | <mark>**Kapitsa**</mark> | <sub>Ollama<br>0.40.8</sub> | <sub>MTPLX<br>2.12.2</sub> | <sub>MLX<br>mlx-lm 0.32.2, mlx-vlm 0.7.8</sub> | <sub>llama.cpp<br>b11669 / b11871</sub> |
+| Model | <mark>**Kapitsa**</mark> | <sub>Ollama</sub> | <sub>MTPLX</sub> | <sub>MLX<br>(mlx-lm / mlx-vlm)</sub> | <sub>llama.cpp</sub> |
 | --- | ---: | ---: | ---: | ---: | ---: |
-| **Qwen3.5-4B** · `4b`<br><sub>dense · 4-bit, 4.6 GB</sub> | 🟩 703 / **120**<br><sub>KFlash</sub> | 600 / 67<br><sub>MTP</sub> | 612 / 64<br><sub>MTP</sub> | 642 / 56<br><sub>MTP</sub> | 512 / 50<br><sub>MTP · b11804</sub> |
-| **Qwen3.5-9B** · `9b`<br><sub>dense · 4-bit, 9.0 GB</sub> | 🟩 381 / **77**<br><sub>KFlash</sub> | — | — | 353 / 27 | 307 / 23<br><sub>b11804</sub> |
-| **Qwen3.8-27B** · `27b`<br><sub>dense · 4-bit, 20.2 GB</sub> | 🟩 110 / **40**<br><sub>KFlash</sub> | 99 / 23<br><sub>MTP</sub> | 99 / 22<br><sub>MTP</sub> | 102 / 18<br><sub>MTP</sub> | 86 / 16<br><sub>MTP · b11804</sub> |
-| **Qwen3.6-35B-A3B** · `35b`<br><sub>MoE, 3B active · 4-bit, 22.1 GB</sub> | 🟩 855 / **106**<br><sub>KFlash</sub> | 681 / 58<br><sub>MTP</sub> | 671 / 53<br><sub>MTP</sub> | 695 / 53<br><sub>DFlash2</sub> | 578 / 53<br><sub>MTP · b11804</sub> |
-| **Nemotron Dory1.0 4B** · `dory`<br><sub>looped dense · NVFP4, 3.2 GB</sub> | 🟩 450 / **36**<br><sub>KFlash</sub> | × | × | 344 / 30 | — |
+| **Qwen3.5-4B** · `4b`<br><sub>dense · 4-bit, 4.6 GB</sub> | 🟩 703 / **120**<br><sub>KFlash</sub> | 600 / 67<br><sub>MTP · 0.40.8</sub> | 612 / 64<br><sub>MTP · 2.12.2</sub> | 642 / 56<br><sub>MTP · mlx-vlm 0.7.8</sub> | 512 / 50<br><sub>MTP · b11804</sub> |
+| **Qwen3.5-9B** · `9b`<br><sub>dense · 4-bit, 9.0 GB</sub> | 🟩 381 / **77**<br><sub>KFlash</sub> | — | — | 353 / 27<br><sub>mlx-lm 0.32.2</sub> | 307 / 23<br><sub>b11804</sub> |
+| **Qwen3.8-27B** · `27b`<br><sub>dense · 4-bit, 20.2 GB</sub> | 🟩 110 / **40**<br><sub>KFlash</sub> | 99 / 23<br><sub>MTP · 0.40.8</sub> | 99 / 22<br><sub>MTP · 2.12.2</sub> | 102 / 18<br><sub>MTP · mlx-vlm 0.7.8</sub> | 86 / 16<br><sub>MTP · b11804</sub> |
+| **Qwen3.6-35B-A3B** · `35b`<br><sub>MoE, 3B active · 4-bit, 22.1 GB</sub> | 🟩 855 / **106**<br><sub>KFlash</sub> | 681 / 58<br><sub>MTP · 0.40.8</sub> | 671 / 53<br><sub>MTP · 2.12.2</sub> | 695 / 53<br><sub>DFlash2 · mlx-vlm 0.7.8</sub> | 578 / 53<br><sub>MTP · b11804</sub> |
+| **Nemotron Dory1.0 4B** · `dory`<br><sub>looped dense · NVFP4, 3.2 GB</sub> | 🟩 450 / **36**<br><sub>KFlash</sub> | × | × | 344 / 30<br><sub>mlx-lm 0.32.2.dev0</sub> | — |
 | **Nemotron 3 Nano 4B** · `nano-4b`<br><sub>hybrid Mamba-2 · FP8, 5.3 GB</sub> | 765 / 34<br><sub>KFlash</sub> | — | — | — | 🟩 413 / **35**<br><sub>Q4_K_M, b11804</sub> |
-| **Nemotron Nano 9B v2** · `nano-9b`<br><sub>hybrid Mamba-2 · NVFP4, 7.9 GB</sub> | 330 / 21<br><sub>KFlash</sub> | — | — | 🟩 **25**<br><sub>4-bit</sub> | — |
-| **Nemotron 3.5 Lightning 30B-A3B** · `lightning`<br><sub>hybrid MoE, 3B active · NVFP4, 22.9 GB</sub> | 🟩 788 / **75**<br><sub>KFlash</sub> | — | — | 514 / 39<br><sub>DSpark</sub> | — |
+| **Nemotron Nano 9B v2** · `nano-9b`<br><sub>hybrid Mamba-2 · NVFP4, 7.9 GB</sub> | 330 / 21<br><sub>KFlash</sub> | — | — | 🟩 **25**<br><sub>4-bit, mlx-lm 0.32.2</sub> | — |
+| **Nemotron 3.5 Lightning 30B-A3B** · `lightning`<br><sub>hybrid MoE, 3B active · NVFP4, 22.9 GB</sub> | 🟩 788 / **75**<br><sub>KFlash</sub> | — | — | 514 / 39<br><sub>DSpark · mlx-vlm 0.7.8</sub> | — |
 | **Nemotron 3.5 Bolt 74B-A9B** · `bolt`<br><sub>hybrid MoE, 9B active · 2/4/8-bit mix, 25.1 GB</sub> | 🟩 256 / **50**<br><sub>KFlash</sub> | — | — | — | — |
 
 **Recursive Flint**
 
-| Model | <mark>**Kapitsa**</mark> | <sub>llama.cpp<br>b11804</sub> |
+| Model | <mark>**Kapitsa**</mark> | <sub>llama.cpp</sub> |
 | --- | ---: | ---: |
-| **Recursive Flint 40B-A2.5B** · `flint`<br><sub>MoE, 2.5B active · 4-bit, 22.6 GB</sub> | 🟩 801 / **74**<br><sub>KFlash</sub> | 772 / 51 |
+| **Recursive Flint 40B-A2.5B** · `flint`<br><sub>MoE, 2.5B active · 4-bit, 22.6 GB</sub> | 🟩 801 / **74**<br><sub>KFlash</sub> | 772 / 51<br><sub>b11804</sub> |
 
 <sub>macOS 14.1, on AC power: Kapitsa's macOS 14 kernels (macOS 15 and later run fused ones). mlx-serve, oMLX and Splash need a newer macOS (×); LM Studio was not installed; rec 0.1.0 refuses this Mac: it requires 48 GiB. Each cell but Flint's is one run of the M4 Pro's protocol (Flint's is the mean of two runs, #341), the other engines in the M4 Pro's setup (not re-tuned here). Nano 4B and 9B v2: Kapitsa runs NVIDIA's published checkpoints, which keep some layers in BF16/FP8, so it reads more per token than the 4-bit files: the 4B's FP8 is ~1 byte per weight against Q4_K_M's ~0.6, the 9B's NVFP4 ~6.11 GB per token against 4.67 GB for mlx-lm's 4-bit. Nano 9B v2 on mlx-lm: no prefill shown, because its template ignores enable_thinking and the timed first token is a thinking token.</sub>
 
@@ -251,20 +251,20 @@ The catalog models measured on each Mac, against the engines that run them: one 
 
 **Qwen and Nemotron**
 
-| Model | <mark>**Kapitsa**</mark> | <sub>mlx‑serve<br>26.10.2</sub> | <sub>oMLX<br>0.7.1rc1</sub> | <sub>Ollama<br>0.40.5 / 0.40.6</sub> | <sub>MTPLX<br>2.12.2</sub> | <sub>MLX<br>mlx-lm 0.32.2, mlx-vlm 0.7.8</sub> | <sub>llama.cpp<br>b11669 / b11871</sub> | <sub>LM&nbsp;Studio<br>MLX runtime 1.13.1, llama.cpp runtime 2.60.0</sub> |
+| Model | <mark>**Kapitsa**</mark> | <sub>mlx‑serve</sub> | <sub>oMLX</sub> | <sub>Ollama</sub> | <sub>MTPLX</sub> | <sub>MLX<br>(mlx-lm / mlx-vlm)</sub> | <sub>llama.cpp</sub> | <sub>LM&nbsp;Studio</sub> |
 | --- | ---: | ---: | ---: | ---: | ---: | ---: | ---: | ---: |
-| **Qwen3.5-4B** · `4b`<br><sub>dense · 4-bit, 4.6 GB</sub> | 🟩 401 / **97**<br><sub>KFlash</sub> | 286 / 62<br><sub>MTP</sub> | 281 / 55<br><sub>MTP</sub> | 298 / 55<br><sub>MTP</sub> | 305 / 42<br><sub>MTP</sub> | 308 / 46 | 315 / 38<br><sub>MTP</sub> | 308 / 47 |
-| **Qwen3.5-9B** · `9b`<br><sub>dense · 4-bit, 9.0 GB</sub> | 🟩 217 / **57**<br><sub>KFlash</sub> | 159 / 37<br><sub>MTP</sub> | — | — | — | 170 / 30 | — | — |
-| **Qwen3.6-35B-A3B** · `35b:16gb`<br><sub>MoE, 3B active · 2-bit experts (unsloth's GGUF), 10.8 GB</sub> | 🟩 462 / **52**<br><sub>KFlash</sub> | × | × | — | × | × | 38 | — |
-| **Nemotron Dory1.0 4B** · `dory`<br><sub>looped dense · NVFP4, 3.2 GB</sub> | 🟩 **39**<br><sub>KFlash</sub> | × | × | × | × | 30 | 4 | × |
-| **Nemotron 3 Nano 4B** · `nano-4b`<br><sub>hybrid Mamba-2 · FP8, 5.3 GB</sub> | 🟩 **37**<br><sub>KFlash</sub> | — | — | — | — | 21<br><sub>BF16</sub> | 28<br><sub>Q4_K_M</sub> | — |
-| **Nemotron Nano 9B v2** · `nano-9b`<br><sub>hybrid Mamba-2 · NVFP4, 7.9 GB</sub> | 🟩 **25**<br><sub>KFlash</sub> | — | — | — | — | 18 | 14<br><sub>Q4_K_M</sub> | — |
+| **Qwen3.5-4B** · `4b`<br><sub>dense · 4-bit, 4.6 GB</sub> | 🟩 401 / **97**<br><sub>KFlash</sub> | 286 / 62<br><sub>MTP · 26.10.2</sub> | 281 / 55<br><sub>MTP · 0.7.1rc1</sub> | 298 / 55<br><sub>MTP · 0.40.6</sub> | 305 / 42<br><sub>MTP · 2.12.2</sub> | 308 / 46<br><sub>mlx-lm 0.32.2</sub> | 315 / 38<br><sub>MTP · b11669</sub> | 308 / 47<br><sub>MLX runtime 1.13.1</sub> |
+| **Qwen3.5-9B** · `9b`<br><sub>dense · 4-bit, 9.0 GB</sub> | 🟩 217 / **57**<br><sub>KFlash</sub> | 159 / 37<br><sub>MTP · 26.10.2</sub> | — | — | — | 170 / 30<br><sub>mlx-lm 0.32.2</sub> | — | — |
+| **Qwen3.6-35B-A3B** · `35b:16gb`<br><sub>MoE, 3B active · 2-bit experts (unsloth's GGUF), 10.8 GB</sub> | 🟩 462 / **52**<br><sub>KFlash</sub> | × | × | — | × | × | 38<br><sub>b11669</sub> | — |
+| **Nemotron Dory1.0 4B** · `dory`<br><sub>looped dense · NVFP4, 3.2 GB</sub> | 🟩 **39**<br><sub>KFlash</sub> | × | × | × | × | 30<br><sub>mlx-lm 0.32.3.dev3</sub> | 4<br><sub>b11551</sub> | × |
+| **Nemotron 3 Nano 4B** · `nano-4b`<br><sub>hybrid Mamba-2 · FP8, 5.3 GB</sub> | 🟩 **37**<br><sub>KFlash</sub> | — | — | — | — | 21<br><sub>BF16, version not recorded</sub> | 28<br><sub>Q4_K_M, b11669</sub> | — |
+| **Nemotron Nano 9B v2** · `nano-9b`<br><sub>hybrid Mamba-2 · NVFP4, 7.9 GB</sub> | 🟩 **25**<br><sub>KFlash</sub> | — | — | — | — | 18<br><sub>mlx-lm 0.32.2</sub> | 14<br><sub>Q4_K_M, version not recorded</sub> | — |
 
 **Recursive Flint**
 
-| Model | <mark>**Kapitsa**</mark> | <sub>llama.cpp<br>d772569</sub> |
+| Model | <mark>**Kapitsa**</mark> | <sub>llama.cpp</sub> |
 | --- | ---: | ---: |
-| **Recursive Flint 40B-A2.5B** · `flint:16gb`<br><sub>MoE, 2.5B active · 2-bit experts (unsloth's GGUF), 11.9 GB</sub> | 🟩 414 / **61**<br><sub>KFlash</sub> | 43 |
+| **Recursive Flint 40B-A2.5B** · `flint:16gb`<br><sub>MoE, 2.5B active · 2-bit experts (unsloth's GGUF), 11.9 GB</sub> | 🟩 414 / **61**<br><sub>KFlash</sub> | 43<br><sub>d772569</sub> |
 
 </details>
 
